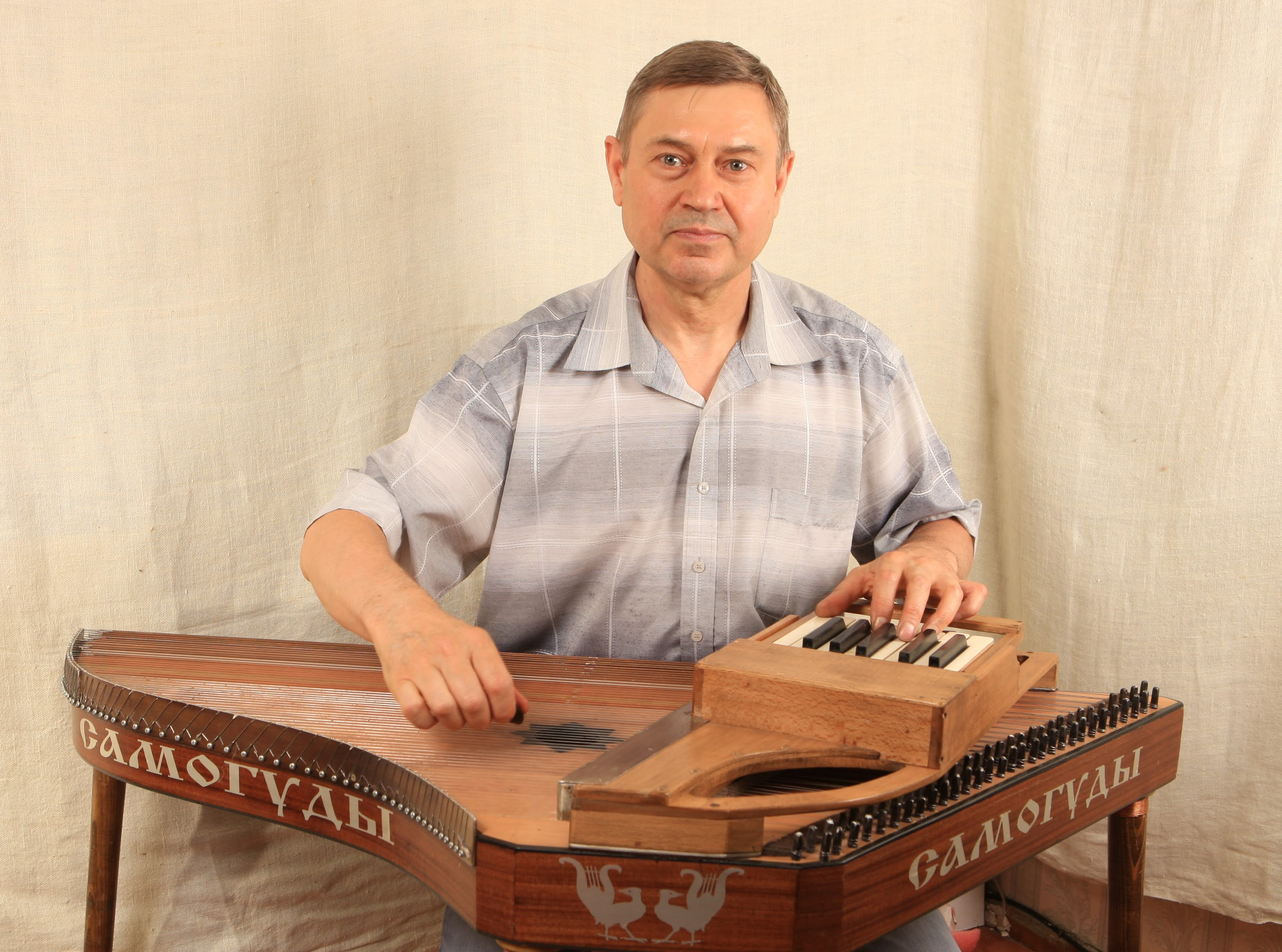
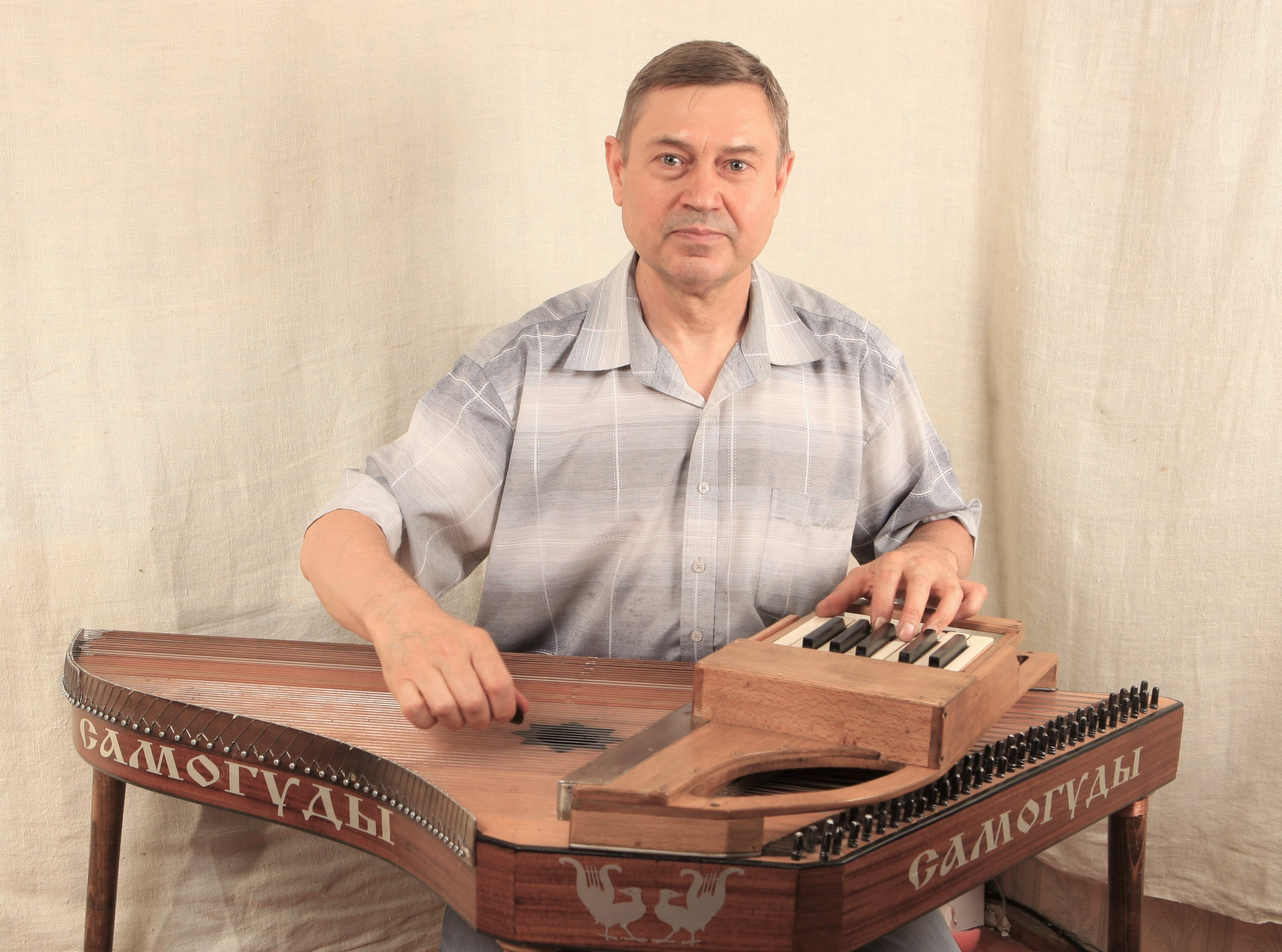
Resize and rename a photo

diff --git a/lib/biography.dart b/lib/biography.dart
@@ -180,7 +180,7 @@ class Biography extends StatelessWidget {
     ),
     GalleryItem(
       id: 'g44',
-      resource: 'assets/images/portrait.jpg',
+      resource: 'assets/images/portrait_v.jpg',
       description:
           'А.\u00A0Гнездилов с реставрированной этнографической скифской арфой',
     ),

diff --git a/lib/elements.dart b/lib/elements.dart
@@ -12,7 +12,7 @@ class MainCard extends StatelessWidget {
   Widget photoPortrait() {
     return parentWidth > 800
         ? Image.asset(
-            'assets/images/portrait.JPG',
+            'assets/images/portrait_v.JPG',
             fit: BoxFit.fitHeight,
             width: parentWidth / 4,
           )
